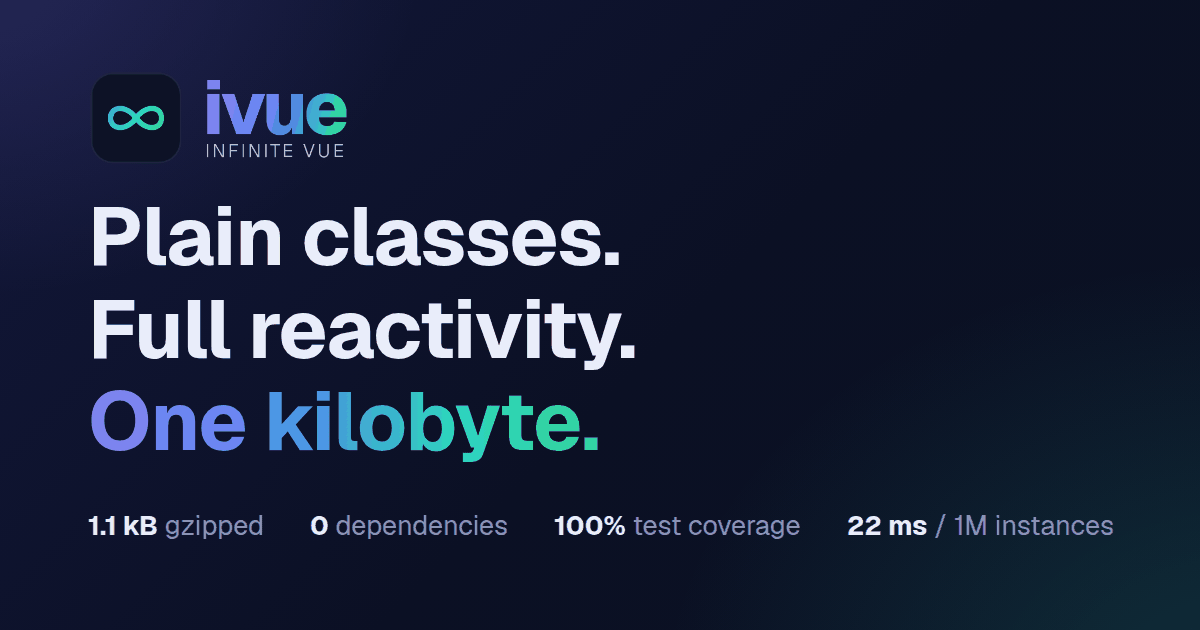
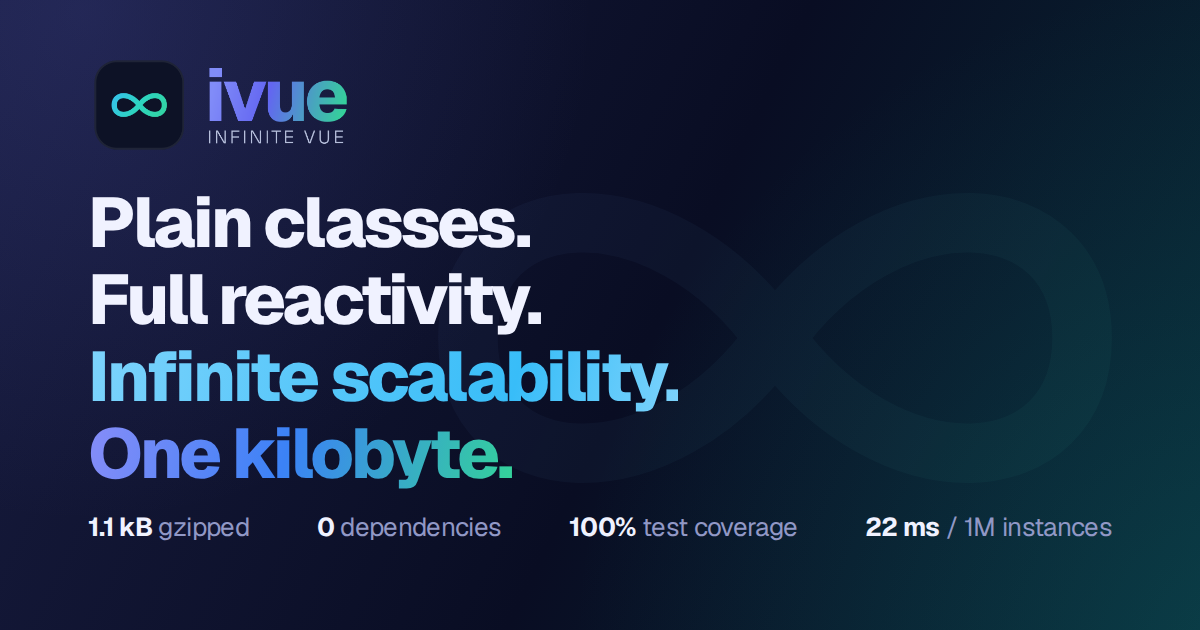
docs(brand): render OG card deterministically

diff --git a/docs_v2/scripts/og-image.html b/docs_v2/scripts/og-image.html
@@ -1,0 +1,182 @@
+<!doctype html>
+<html lang="en">
+  <head>
+    <meta charset="UTF-8" />
+    <meta name="viewport" content="width=device-width, initial-scale=1.0" />
+    <title>ivue Open Graph image</title>
+    <style>
+      @font-face {
+        font-family: 'Geist';
+        font-style: normal;
+        font-weight: 300 800;
+        font-display: block;
+        src: url('https://fonts.gstatic.com/s/geist/v5/gyByhwUxId8gMEwcGFU.woff2')
+          format('woff2');
+      }
+
+      * {
+        box-sizing: border-box;
+      }
+
+      html,
+      body {
+        width: 1200px;
+        height: 630px;
+        margin: 0;
+        overflow: hidden;
+      }
+
+      body {
+        font-family: 'Geist', sans-serif;
+        background:
+          radial-gradient(
+            circle at 7% 2%,
+            rgba(103, 108, 220, 0.16),
+            transparent 40%
+          ),
+          radial-gradient(
+            circle at 104% 104%,
+            rgba(21, 139, 144, 0.2),
+            transparent 48%
+          ),
+          linear-gradient(116deg, #181c40 0%, #090d23 54%, #082a35 100%);
+      }
+
+      .card {
+        position: relative;
+        width: 1200px;
+        height: 630px;
+        overflow: hidden;
+      }
+
+      .hero-mark {
+        position: absolute;
+        z-index: 0;
+        top: -212px;
+        /* The visible stroke ends at x=38.7 in the 48-unit viewBox. This
+           places that edge at 1112px, aligned with the metric row. */
+        left: 225px;
+        width: 1100px;
+        height: 1100px;
+        opacity: 0.045;
+        pointer-events: none;
+      }
+
+      .lockup {
+        position: absolute;
+        z-index: 1;
+        top: 54px;
+        left: 88px;
+        width: 265px;
+        height: auto;
+      }
+
+      .headline {
+        position: absolute;
+        z-index: 1;
+        top: 184px;
+        left: 88px;
+        margin: 0;
+        color: #f0f2ff;
+        font-size: 70px;
+        font-weight: 800;
+        letter-spacing: -0.04em;
+        line-height: 1.1;
+      }
+
+      .headline span {
+        display: block;
+        width: max-content;
+      }
+
+      .headline .scalability {
+        background: linear-gradient(
+          105deg,
+          #7dd3fc 0%,
+          #38bdf8 72%,
+          #7dd3fc 100%
+        );
+        background-clip: text;
+        color: transparent;
+      }
+
+      .headline .kilobyte {
+        background: linear-gradient(
+          105deg,
+          #818cf8 4%,
+          #3b82f6 47%,
+          #34d399 100%
+        );
+        background-clip: text;
+        color: transparent;
+      }
+
+      .metrics {
+        position: absolute;
+        z-index: 1;
+        right: 88px;
+        bottom: 90px;
+        left: 88px;
+        display: flex;
+        align-items: baseline;
+        justify-content: space-between;
+        color: #9198c6;
+        font-size: 26px;
+        font-weight: 400;
+        letter-spacing: -0.025em;
+        line-height: 1;
+        white-space: nowrap;
+      }
+
+      .metrics strong {
+        color: #f0f2ff;
+        font-weight: 700;
+      }
+    </style>
+  </head>
+  <body>
+    <main class="card">
+      <svg class="hero-mark" viewBox="0 0 48 48" fill="none" aria-hidden="true">
+        <path
+          d="M24 24 C 19 17, 10.6 17.6, 10.6 24 C 10.6 30.4, 19 31, 24 24 C 29 17, 37.4 17.6, 37.4 24 C 37.4 30.4, 29 31, 24 24 Z"
+          stroke="url(#hero-mark-gradient)"
+          stroke-width="2.6"
+          stroke-linecap="round"
+          stroke-linejoin="round"
+        />
+        <defs>
+          <linearGradient
+            id="hero-mark-gradient"
+            x1="8"
+            y1="14"
+            x2="40"
+            y2="34"
+            gradientUnits="userSpaceOnUse"
+          >
+            <stop stop-color="#818cf8" />
+            <stop offset="1" stop-color="#34d399" />
+          </linearGradient>
+        </defs>
+      </svg>
+      <img
+        class="lockup"
+        src="../public/brand-lockup-dark.png"
+        alt="ivue — Infinite Vue"
+      />
+
+      <h1 class="headline">
+        <span>Plain classes.</span>
+        <span>Full reactivity.</span>
+        <span class="scalability">Infinite scalability.</span>
+        <span class="kilobyte">One kilobyte.</span>
+      </h1>
+
+      <div class="metrics">
+        <span><strong>1.1 kB</strong> gzipped</span>
+        <span><strong>0</strong> dependencies</span>
+        <span><strong>100%</strong> test coverage</span>
+        <span><strong>22 ms</strong> / 1M instances</span>
+      </div>
+    </main>
+  </body>
+</html>
